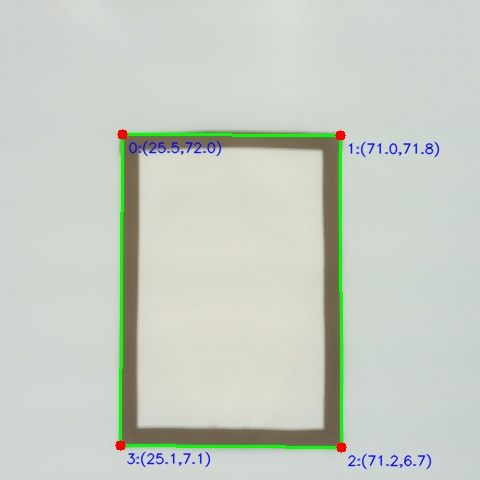
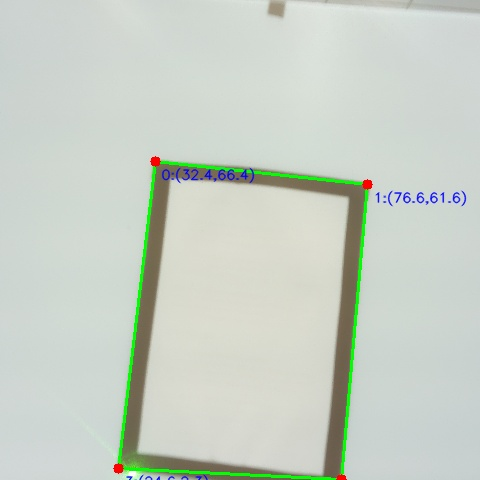
完成闭环矩形检测和闭环控制代码编写

Changed region(s): [[0.2188, 0.25, 0.9688, 1.0], [0.6562, 0.0, 1.0, 0.0312], [0.5312, 0.0, 0.5938, 0.0625]]

diff --git a/scripts/task/task4.py b/scripts/task/task4.py
@@ -1,39 +1,104 @@
-#!/usr/bin/env python3
-"""
-task2.py ─ 读取 p1 并通过 UART0 (GPIO14/15 → /dev/serial0) @ 9600 baud 输出
-依赖：pip install pyserial
-"""
-
-import ServoControl  # ← 引入 ServoControl 模块
-from readparams import get_p1   # ← 直接复用公共模块
+import cv2
 import time
+import numpy as np
+from picamera2 import Picamera2
+from typing import Tuple, List
+import ServoControl
+from xy_to_plus import map_coords_to_pulses
 
+# ---------------- 图像捕获与裁剪 ---------------- #
+def capture_image() -> np.ndarray:
+    cam = Picamera2()
+    cam.configure(cam.create_still_configuration())
+    cam.start()
+    time.sleep(2)
+    frame = cam.capture_array()
+    cam.close()
+    return frame
 
+def crop_image(img: np.ndarray, center: Tuple[int, int], width: int, height: int) -> np.ndarray:
+    x, y = center
+    h, w = img.shape[:2]
+    w2, h2 = width // 2, height // 2
+    x1, y1 = max(0, x - w2), max(0, y - h2)
+    x2, y2 = min(w, x + w2), min(h, y + h2)
+    return img[y1:y2, x1:x2].copy()
 
-def main() -> None:
+# ---------------- 矩形检测（引入detect_rec） ---------------- #
+def find_black_rectangle_corners(debug: bool = False, save_path: str = "debug_detected.jpg") -> List[Tuple[float, float]]:
+    original_img = capture_image()
+    h, w = original_img.shape[:2]
+    side_len = min(w, h)
+    center_pt = (w // 2, h // 2)
+    cropped_img = crop_image(original_img, center_pt, side_len, side_len)
+    resized_img = cv2.resize(cropped_img, (480, 480))
+    height, width = resized_img.shape[:2]
 
+    gray = cv2.cvtColor(resized_img, cv2.COLOR_BGR2GRAY)
+    gray_blur = cv2.GaussianBlur(gray, (5, 5), 0)
+    _, thresh = cv2.threshold(gray_blur, 0, 255, cv2.THRESH_BINARY_INV + cv2.THRESH_OTSU)
+    kernel = np.ones((5, 5), np.uint8)
+    closed = cv2.morphologyEx(thresh, cv2.MORPH_CLOSE, kernel, iterations=2)
 
-    ServoControl.setPWMServoMove(1, 1710, 2000)  
-    ServoControl.setPWMServoMove(2, 1325, 2000)  
-    time.sleep(2)  # 等待2秒
+    contours, _ = cv2.findContours(closed, cv2.RETR_EXTERNAL, cv2.CHAIN_APPROX_SIMPLE)
+    if not contours:
+        return []
 
-    ServoControl.setPWMServoMove(1, 1440, 2000)  
-    ServoControl.setPWMServoMove(2, 1337, 2000)  
-    time.sleep(2)  # 等待2秒
+    contour = max(contours, key=cv2.contourArea)
+    peri = cv2.arcLength(contour, True)
+    approx = cv2.approxPolyDP(contour, 0.02 * peri, True)
+    if len(approx) == 4:
+        corners = [tuple(pt[0]) for pt in approx]
+    else:
+        rot_rect = cv2.minAreaRect(contour)
+        box = cv2.boxPoints(rot_rect)
+        corners = [tuple(pt) for pt in box]
 
-    ServoControl.setPWMServoMove(1, 1430, 2000)  
-    ServoControl.setPWMServoMove(2, 1490, 2000)  
-    time.sleep(2)  # 等待2秒
+    def sort_corners_clockwise(c_pts):
+        c_pts = sorted(c_pts, key=lambda p: p[0] + p[1])
+        tl = c_pts[0]; br = c_pts[-1]
+        other = c_pts[1:-1]
+        tr, bl = (other[0], other[1]) if other[0][0] > other[1][0] else (other[1], other[0])
+        return [tl, tr, br, bl]
 
-    ServoControl.setPWMServoMove(1, 1730, 2000)  
-    ServoControl.setPWMServoMove(2, 1495, 2000)  
-    time.sleep(2)  # 等待2秒
+    corners = sort_corners_clockwise(corners)
 
+    result_points = []
+    for (px, py) in corners:
+        X = (px / (width - 1)) * 100.0
+        Y = ((height - 1 - py) / (height - 1)) * 100.0
+        result_points.append((round(X, 4), round(Y, 4)))
 
-    print("first servo commands executed successfully.")
+    if debug:
+        pts_int = np.array([[int(x), int(y)] for (x, y) in corners], dtype=np.int32)
+        cv2.polylines(resized_img, [pts_int.reshape(-1, 1, 2)], True, (0, 255, 0), 2)
+        font = cv2.FONT_HERSHEY_SIMPLEX
+        for idx, (px, py) in enumerate(pts_int):
+            cv2.circle(resized_img, (px, py), 5, (0, 0, 255), -1)
+            norm_x, norm_y = result_points[idx]
+            text = f"{idx}:({norm_x:.1f},{norm_y:.1f})"
+            cv2.putText(resized_img, text, (px + 6, py + 18), font, 0.45, (255, 0, 0), 1, cv2.LINE_AA)
+        cv2.imwrite(save_path, resized_img)
+        print(f"[DEBUG] 检测结果已保存为 {save_path}")
 
+    return result_points
 
-    print("Servo commands executed successfully.")
+# ---------------- 舵机循迹控制 ---------------- #
+def trace_rectangle(corners: List[Tuple[float, float]], delay: float = 0.5):
+    for idx, (x, y) in enumerate(corners):
+        px, py = map_coords_to_pulses(x, y)
+        print(f"Moving to corner {idx}: (X={x}, Y={y}) → (pulseX={px}, pulseY={py})")
+        ServoControl.setPWMServoMove(1, px, 500)
+        ServoControl.setPWMServoMove(2, py, 500)
+        time.sleep(delay)
 
+# ---------------- 主程序入口 ---------------- #
 if __name__ == "__main__":
-    main()
+    corners = find_black_rectangle_corners(debug=True, save_path="debug_detected.jpg")
+    if corners and len(corners) == 4:
+        print("检测到的矩形坐标(0~100)：", corners)
+        print("开始循迹...")
+        trace_rectangle(corners, delay=1.0)  # 每个点停留1秒，可调
+        print("循迹完成！")
+    else:
+        print("未检测到有效的矩形，无法循迹。")

diff --git a/scripts/task/task3.py b/scripts/task/task3.py
@@ -7,8 +7,8 @@ import ServoControl                           # ← 你的舵机控制库
 import time
 
 # ---------- 1) 硬编码四点边界 ----------
-px1, px2 = 26, 72   # x 轴最小、最大
-py1, py2 = 25, 90   # y 轴最小、最大
+px1, px2 = 26, 70   # x 轴最小、最大
+py1, py2 = 25, 92   # y 轴最小、最大
 
 # 以顺时针方式组合四个顶点
 POINTS = [
